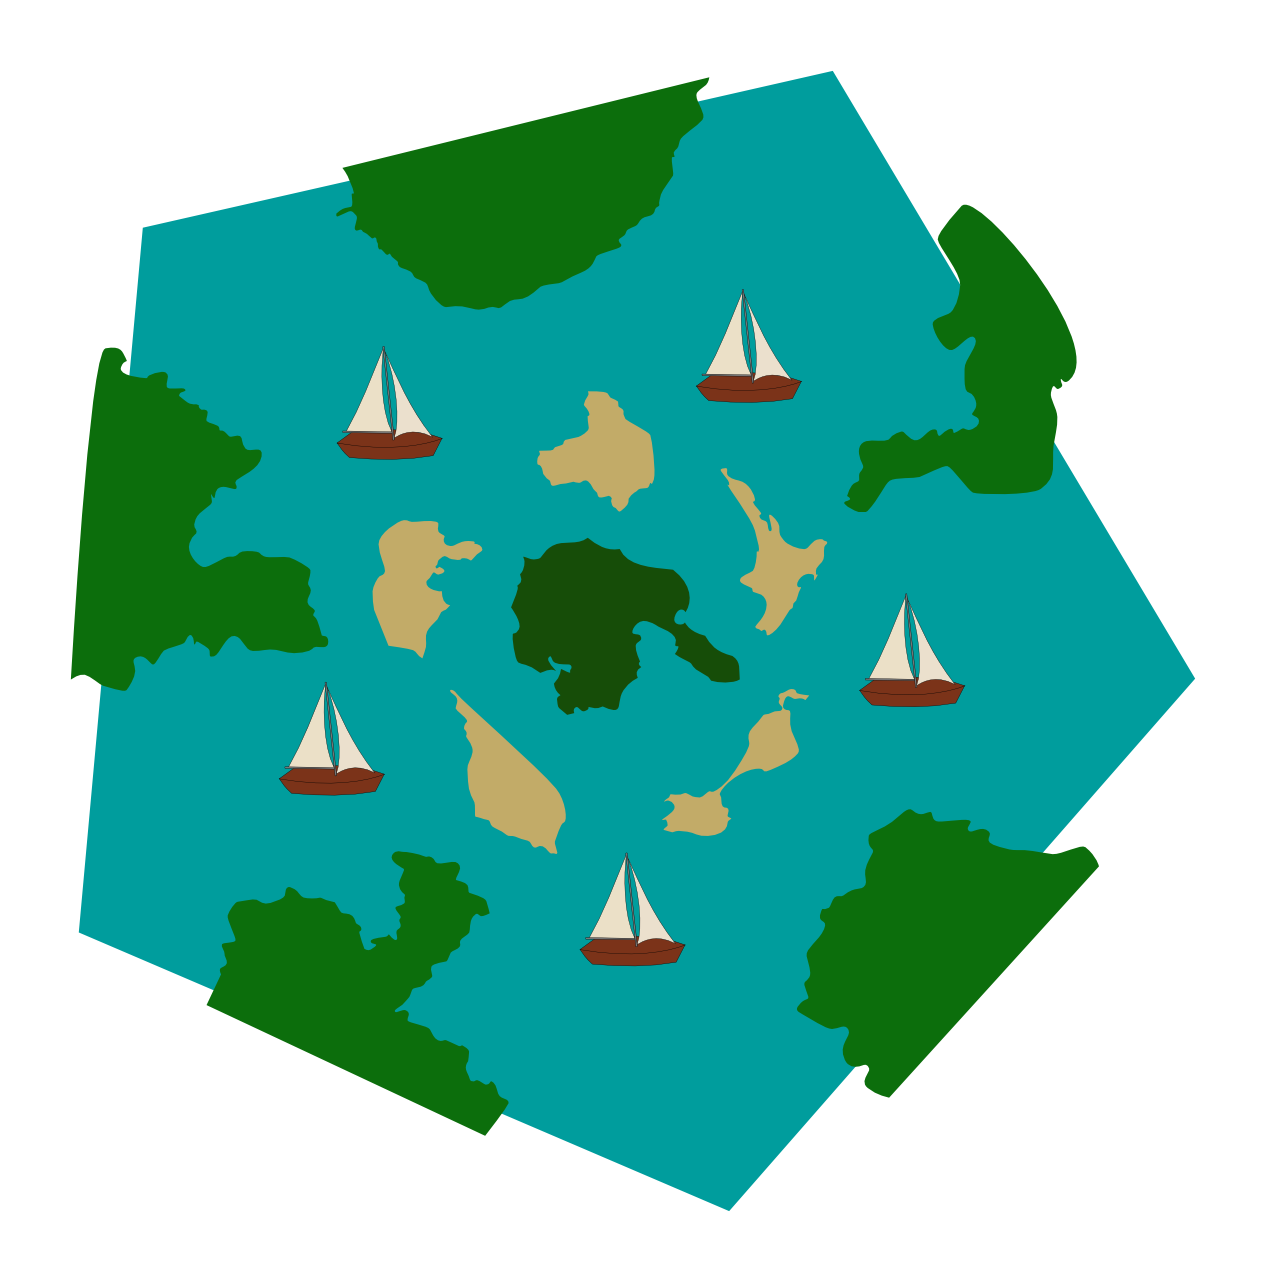
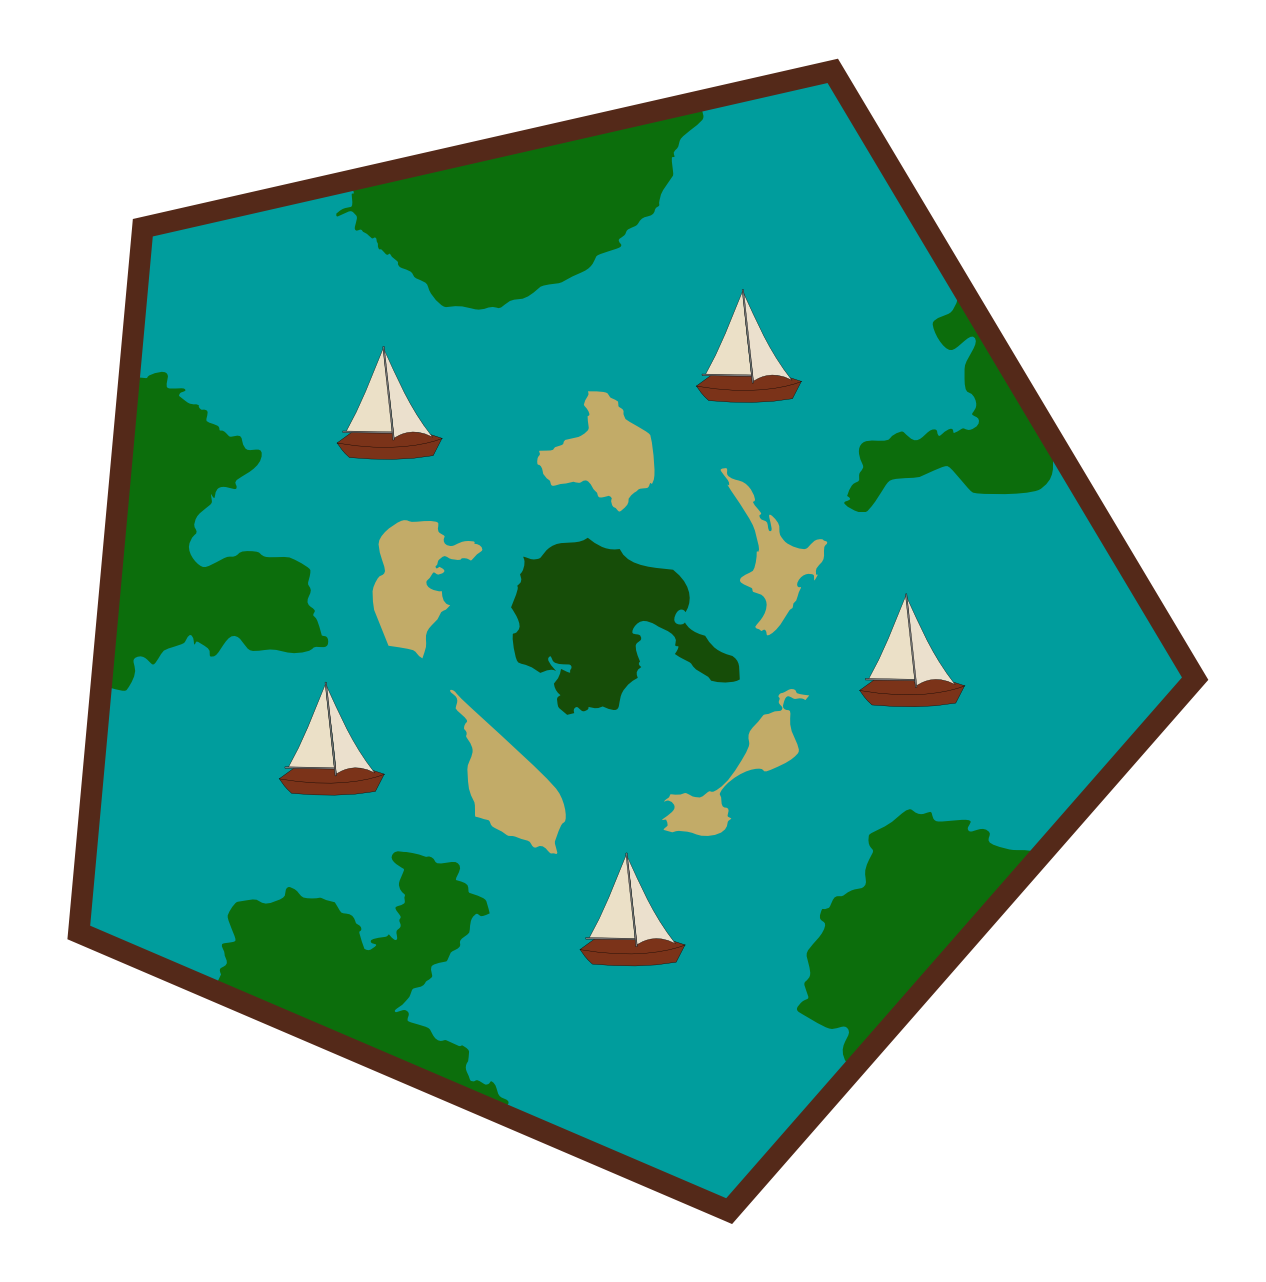
Updating the map and results

diff --git a/assets/base.scss b/assets/base.scss
@@ -50,10 +50,10 @@ body {
     }
   }
 }
-#puzzle0 { top: 306px; left: 65px; z-index: 99; }
+#puzzle0 { top: 306px; left: 86px; z-index: 99; }
 #puzzle1 { top: 123px; left: 286px; z-index: 99; }
-#puzzle2 { top: 250px; left: 630px; z-index: 99; }
-#puzzle3 { top: 590px; left: 566px; z-index: 99; }
+#puzzle2 { top: 272px; left: 620px; z-index: 99; }
+#puzzle3 { top: 576px; left: 559px; z-index: 99; }
 #puzzle4 { top: 609px; left: 188px; z-index: 99; }
 #puzzle5 { top: 459px; left: 189px; z-index: 95; }
 #puzzle6 { top: 247px; left: 229px; z-index: 95; }
